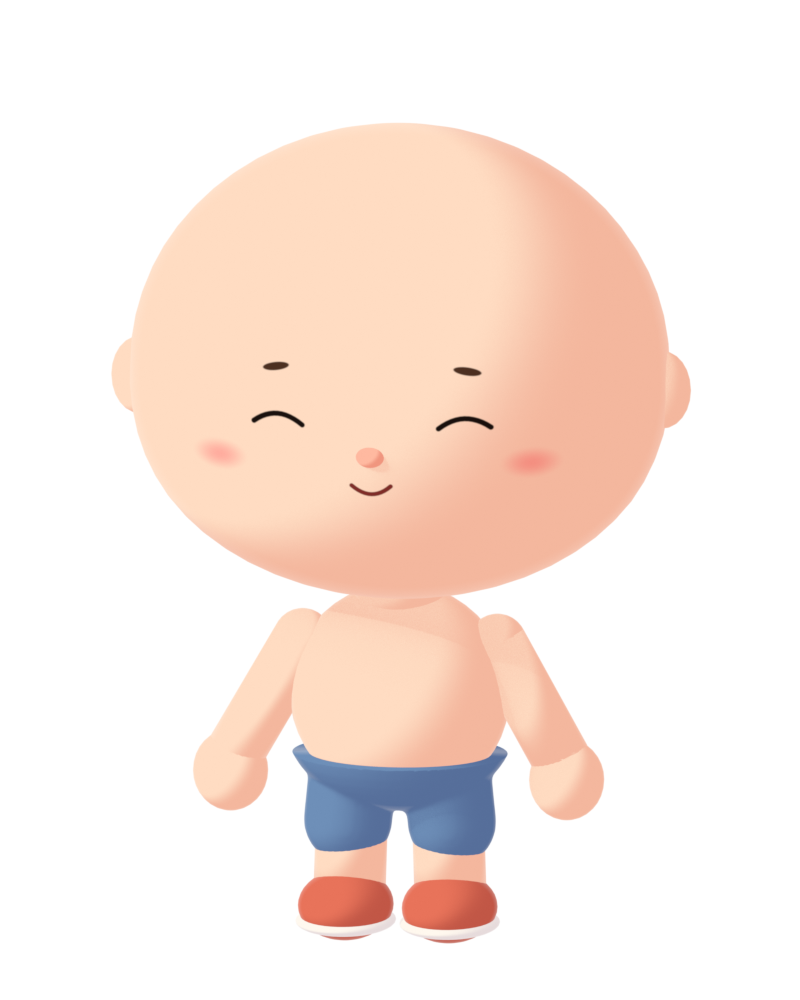
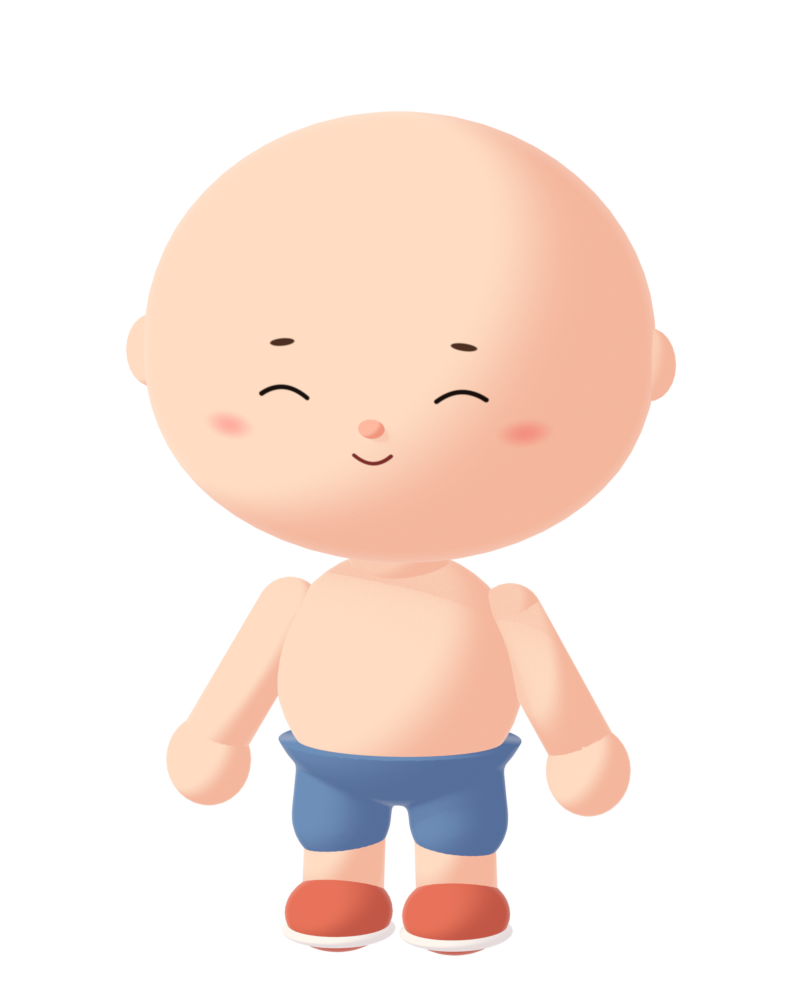
feat(app): 성별에 따라 캐릭터 얼굴과 기본 머리를 그린다
- 여자는 body_f* 얼굴과 hair_down, 남자는 기존 얼굴과 hair_short를 그린다.
  모자를 쓰면 모자 밖으로 삐져나오지 않는 _cap 헤어로 바꾼다.
- 기존 레이어 PNG가 커밋된 blend와 맞지 않아 전체 레이어를 다시 렌더했다(비율이 조금 달라짐).
- 상점 헤어는 아직 레이어가 없어 성별 기본 머리로 그린다.

diff --git a/app/lib/features/character/character_avatar.dart b/app/lib/features/character/character_avatar.dart
@@ -11,11 +11,13 @@ import 'package:flutter_riverpod/flutter_riverpod.dart';
 class CharacterLook {
   const CharacterLook({required this.gender, this.equipment = const {}});
 
-  /// 'm' | 'f'. 지금은 머리카락 레이어를 그리지 않아 겉모습에 영향이 없다.
+  /// 'm' | 'f'. 얼굴(여자는 body_f*)과 기본 머리(남자 short, 여자 down)를 정한다.
   final String gender;
 
-  /// 슬롯(clothing·hair·prop) → 장착 아이템 키. hair 슬롯은 그리지 않는다.
+  /// 슬롯(clothing·hair·prop) → 장착 아이템 키.
   final Map<String, String> equipment;
+
+  bool get _female => gender == 'f';
 
   static const _tops = {'hood_daily', 'tee_runner', 'cardigan_knit'};
   static const _props = {'cap_sports', 'towel_gym', 'earbuds'};
@@ -25,15 +27,33 @@ class CharacterLook {
     return _tops.contains(key) ? 'top_$key' : 'top_basic';
   }
 
+  /// 상점 헤어는 아직 레이어가 없어 성별 기본 머리로 그린다.
+  /// 모자를 쓰면 모자 밖으로 삐져나오지 않게 눌린 변형(_cap)을 쓴다.
+  String get _hair {
+    final hair = _female ? 'hair_down' : 'hair_short';
+    return _prop == 'prop_cap_sports' ? '${hair}_cap' : hair;
+  }
+
+  /// 표정별 몸(얼굴 포함) 레이어.
+  String body(CharacterFace face) {
+    final base = _female ? 'body_f' : 'body';
+    return switch (face) {
+      CharacterFace.normal => base,
+      CharacterFace.blink => '${base}_blink',
+      CharacterFace.happy => '${base}_happy',
+    };
+  }
+
   String? get _prop {
     final key = equipment['prop'];
     return _props.contains(key) ? 'prop_$key' : null;
   }
 
-  /// 아래에서 위로 그릴 레이어(몸 제외). 머리카락 레이어는 그리지 않는다.
+  /// 아래에서 위로 그릴 레이어(몸 제외).
   List<String> get overlayLayers => [
     _top,
     if (_prop == 'prop_towel_gym') _prop!,
+    _hair,
     if (_prop == 'prop_earbuds' || _prop == 'prop_cap_sports') _prop!,
   ];
 
@@ -44,10 +64,11 @@ class CharacterLook {
       other is CharacterLook &&
       other.gender == gender &&
       other._top == _top &&
+      other._hair == _hair &&
       other._prop == _prop;
 
   @override
-  int get hashCode => Object.hash(gender, _top, _prop);
+  int get hashCode => Object.hash(gender, _top, _hair, _prop);
 }
 
 /// 얼굴 표정. 몸 레이어에 얼굴이 함께 그려져 있어 몸 PNG를 바꿔 끼운다.
@@ -71,18 +92,13 @@ class CharacterFigure extends StatelessWidget {
 
   @override
   Widget build(BuildContext context) {
-    final body = switch (face) {
-      CharacterFace.normal => 'body',
-      CharacterFace.blink => 'body_blink',
-      CharacterFace.happy => 'body_happy',
-    };
     return AspectRatio(
       aspectRatio: kCharacterAspect,
       child: Stack(
         fit: StackFit.expand,
         children: [
           if (shadow) const _GroundShadow(),
-          _layer(body),
+          _layer(look.body(face)),
           for (final l in look.overlayLayers) _layer(l),
         ],
       ),
@@ -188,8 +204,11 @@ class _LivingCharacterState extends ConsumerState<LivingCharacter>
   void didChangeDependencies() {
     super.didChangeDependencies();
     // 표정 PNG를 미리 올려 두어 처음 깜빡일 때 비지 않게 한다.
-    for (final f in ['body_blink', 'body_happy']) {
-      precacheImage(AssetImage(CharacterLook.asset(f)), context);
+    for (final f in [CharacterFace.blink, CharacterFace.happy]) {
+      precacheImage(
+        AssetImage(CharacterLook.asset(widget.look.body(f))),
+        context,
+      );
     }
   }
 
